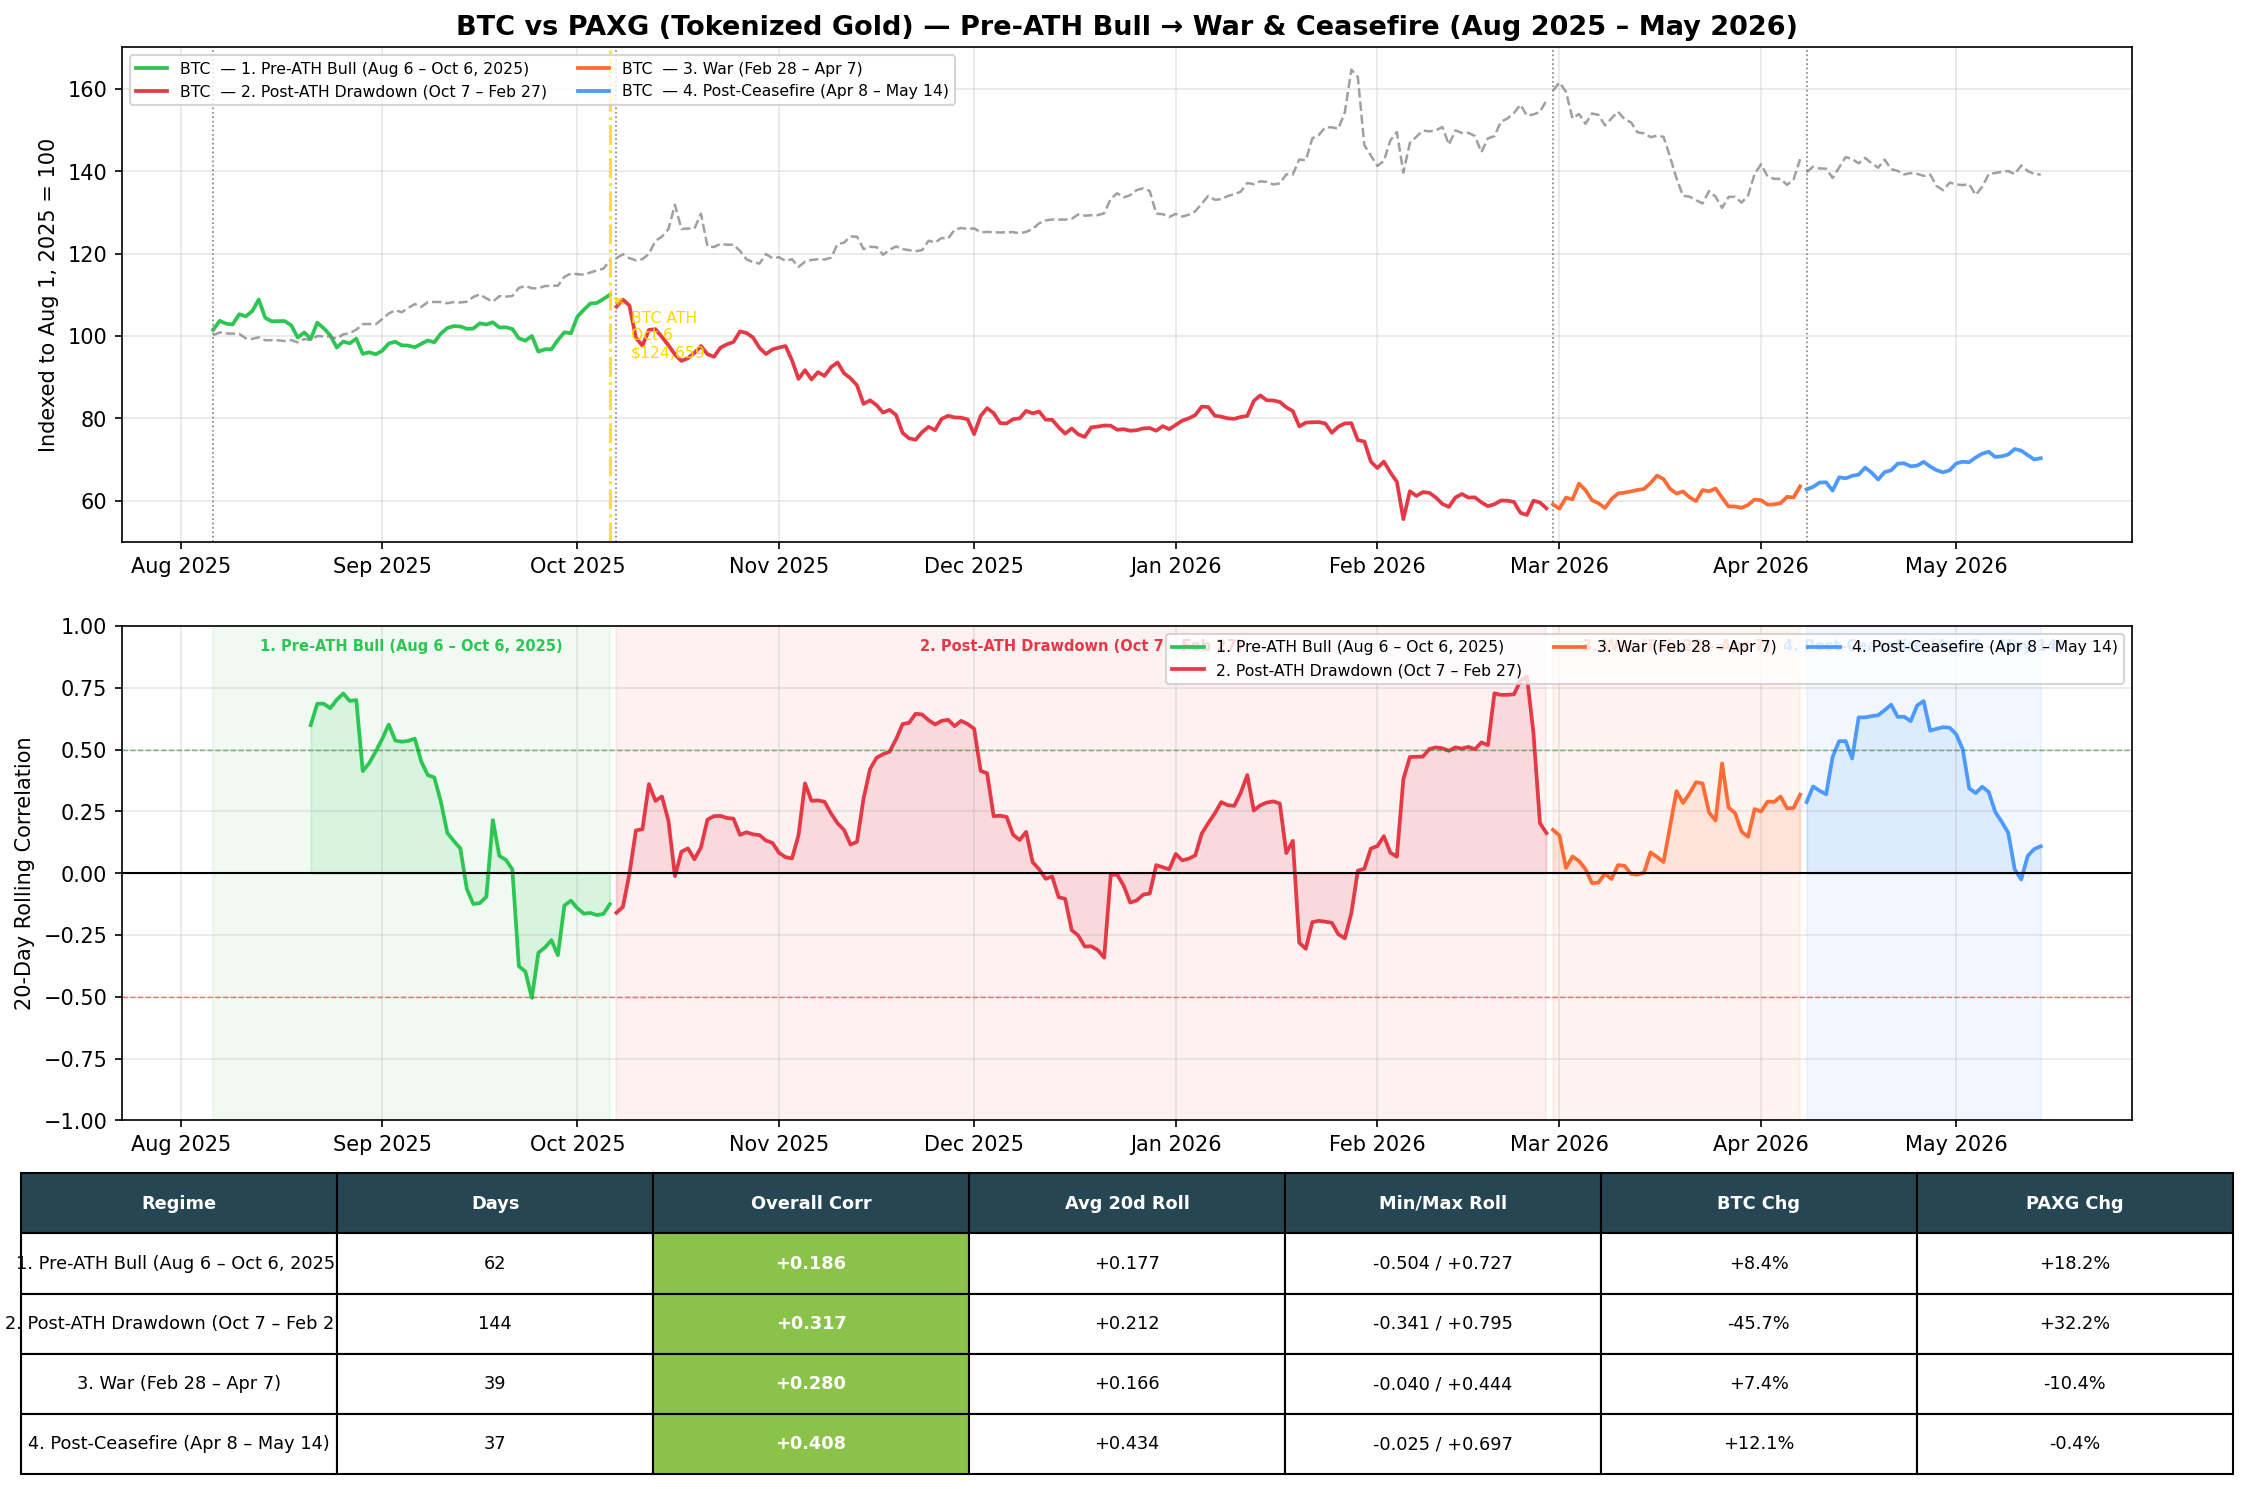
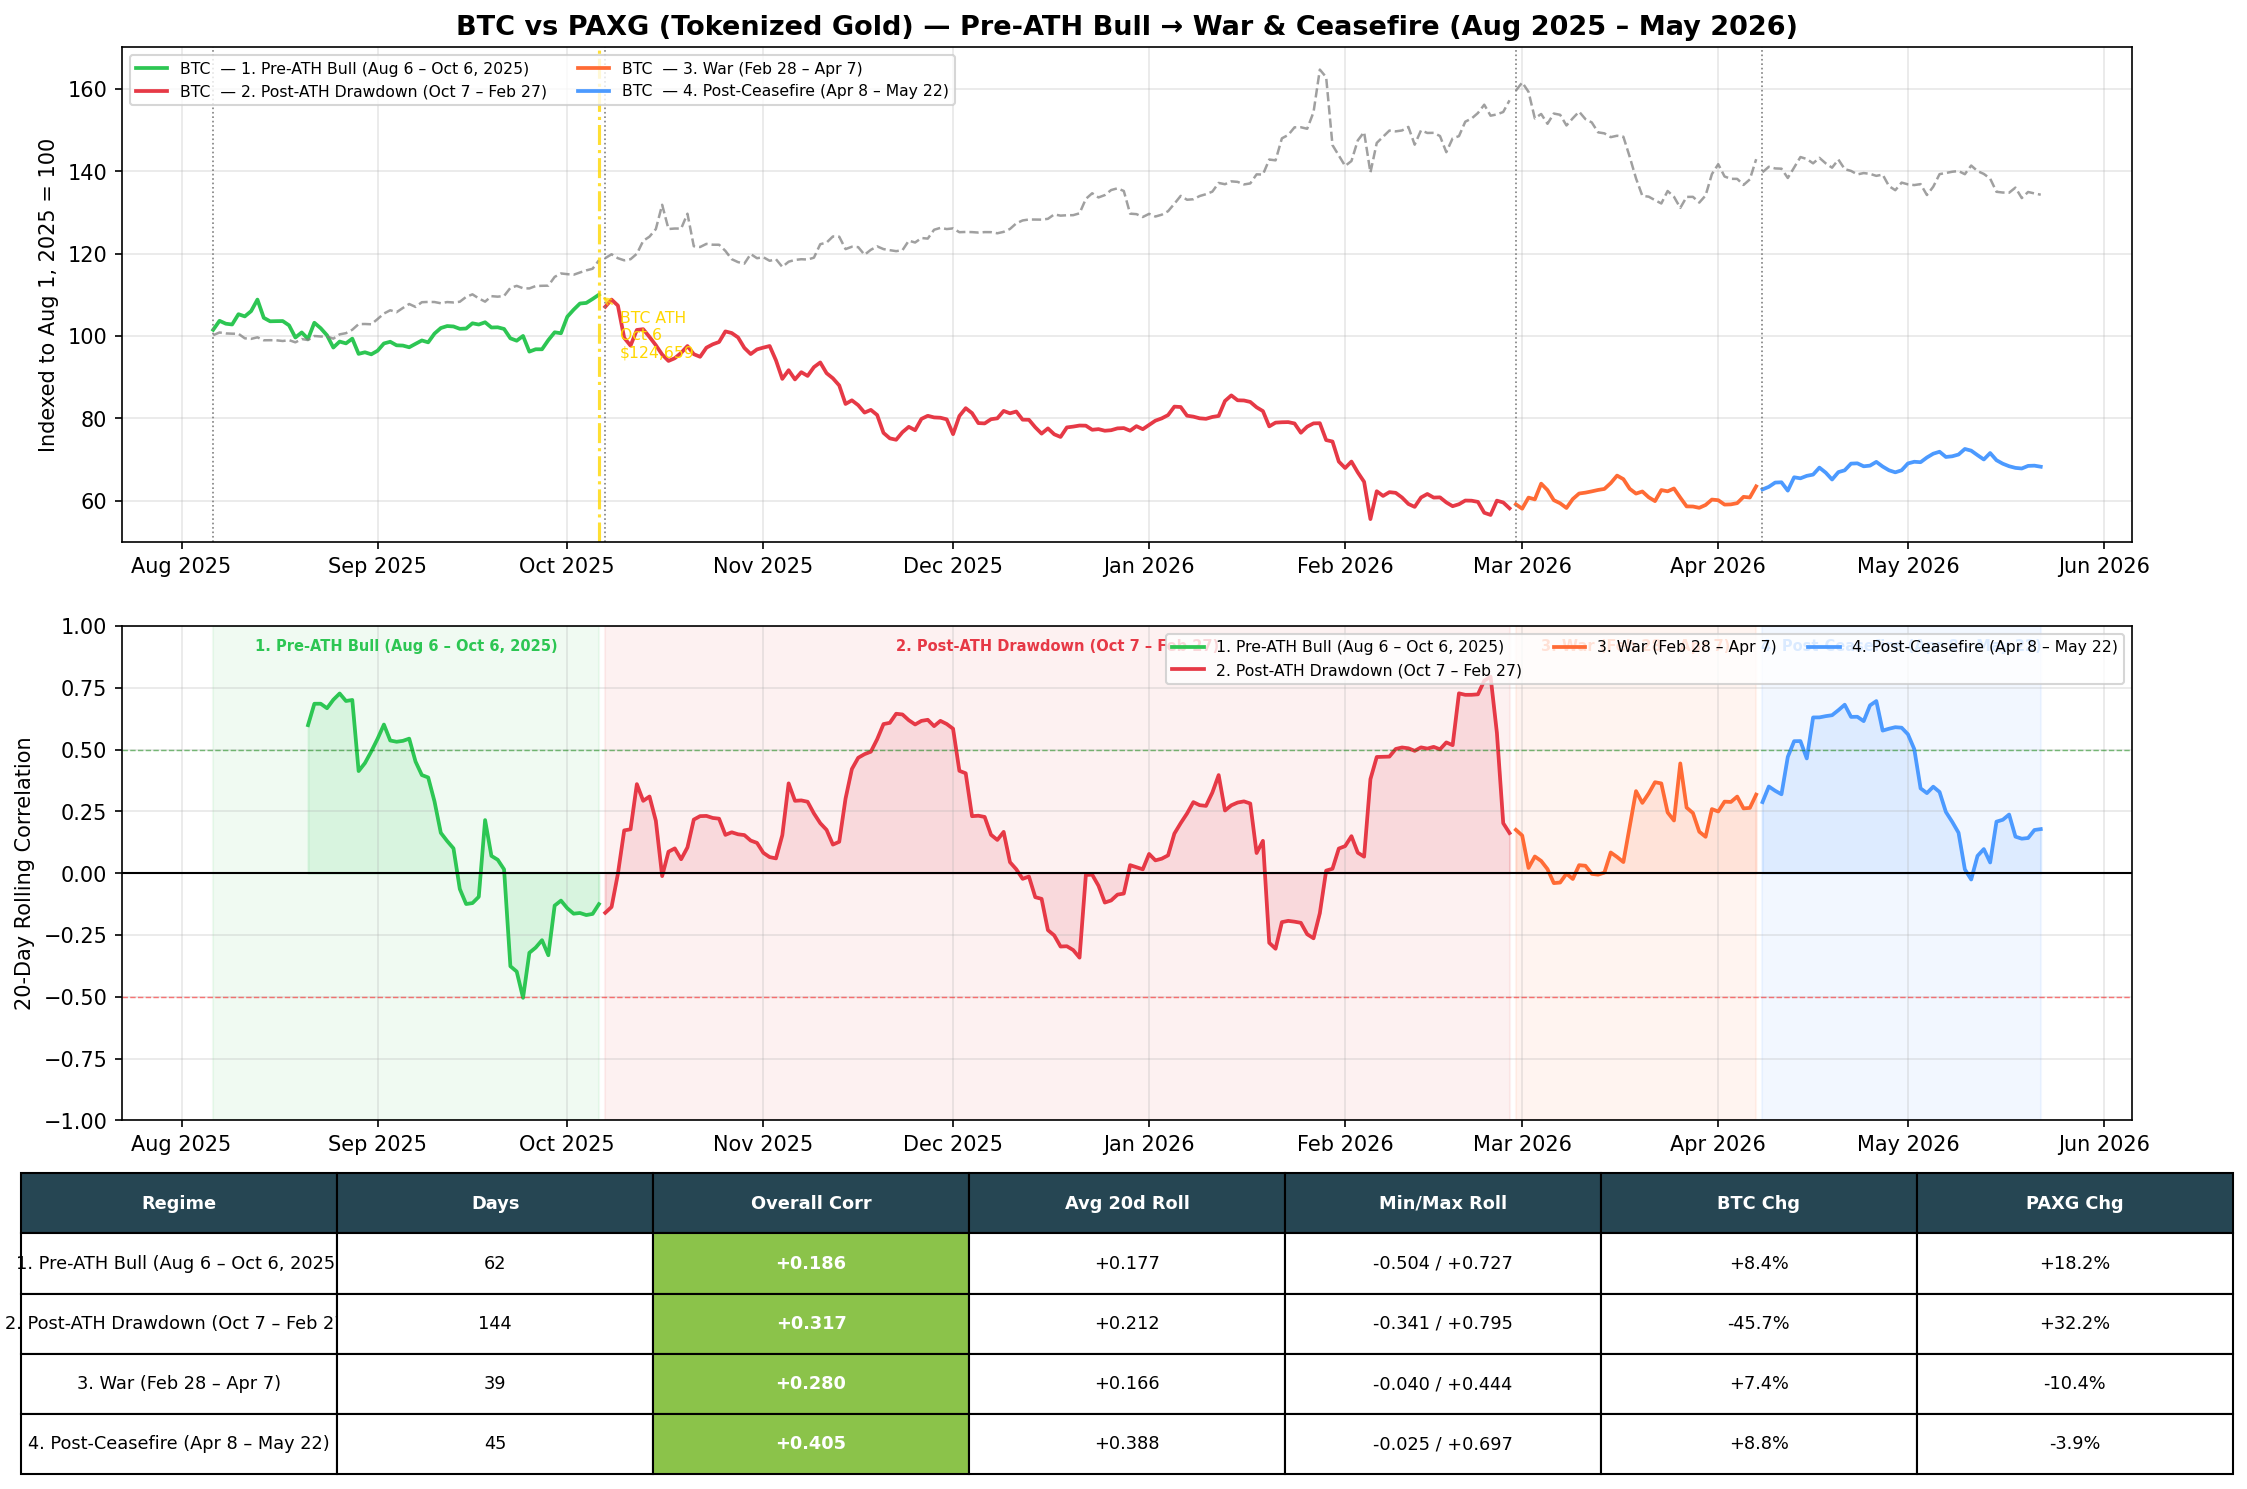
data: refresh through May 22 — regime 4 extended to 45 days, BTC +8.8%, PAXG -3.9%

diff --git a/btc_gold_correlation.py b/btc_gold_correlation.py
@@ -12,7 +12,7 @@ REGIMES = {
     "1. Pre-ATH Bull\n(Aug 6 – Oct 6, 2025)":      ("2025-08-06", "2025-10-06"),
     "2. Post-ATH Drawdown\n(Oct 7 – Feb 27)":  ("2025-10-07", "2026-02-27"),
     "3. War\n(Feb 28 – Apr 7)":                  ("2026-02-28", "2026-04-07"),
-    "4. Post-Ceasefire\n(Apr 8 – May 14)":       ("2026-04-08", "2026-05-14"),
+    "4. Post-Ceasefire\n(Apr 8 – May 22)":       ("2026-04-08", "2026-05-22"),
 }
 ROLLING_WINDOW = 20
 OUTPUT_PNG = "btc_gold_correlation.png"
@@ -59,7 +59,7 @@ df["date"] = pd.to_datetime(df["date"])
 df = df.sort_values("date").reset_index(drop=True)
 
 start_dt = pd.Timestamp("2025-08-01")
-end_dt = pd.Timestamp("2026-05-14")
+end_dt = pd.Timestamp("2026-05-22")
 df = df[(df["date"] >= start_dt) & (df["date"] <= end_dt)].copy()
 df = df.dropna(subset=["btc", "gold"])
 
@@ -111,7 +111,7 @@ REGIME_COLORS = {
     "1. Pre-ATH Bull\n(Aug 6 – Oct 6, 2025)":     "#2DC653",
     "2. Post-ATH Drawdown\n(Oct 7 – Feb 27)": "#E63946",
     "3. War\n(Feb 28 – Apr 7)":                 "#FF6B35",
-    "4. Post-Ceasefire\n(Apr 8 – May 14)":      "#4C9AFF",
+    "4. Post-Ceasefire\n(Apr 8 – May 22)":      "#4C9AFF",
 }
 
 # ── 7. Plot ──────────────────────────────────────────────────────────────────
